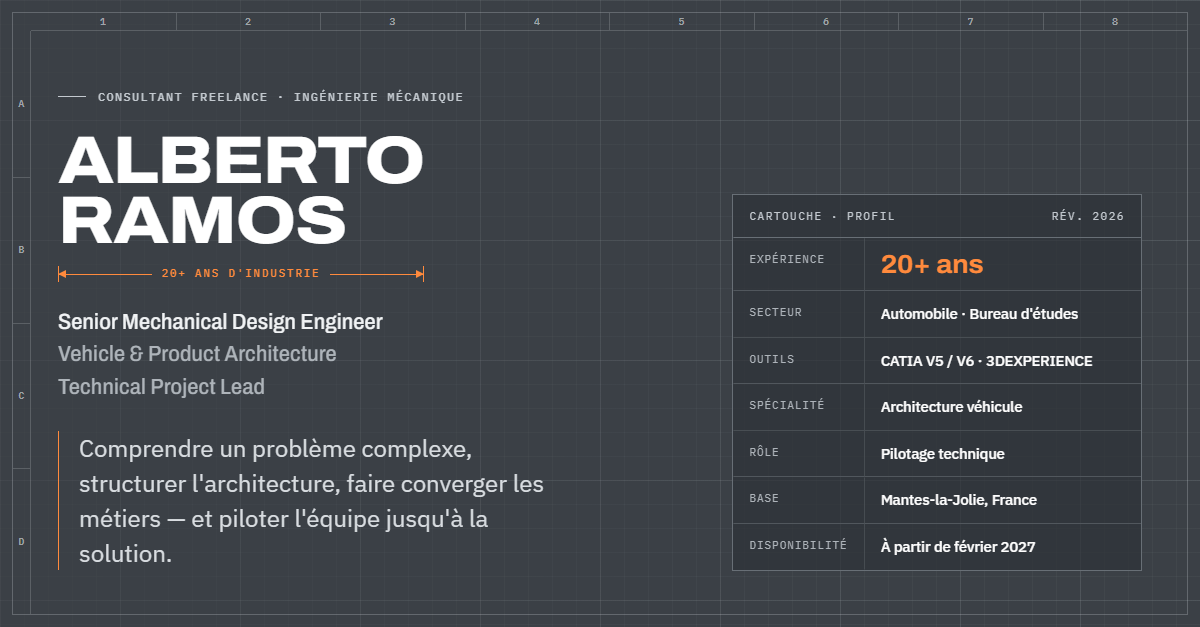
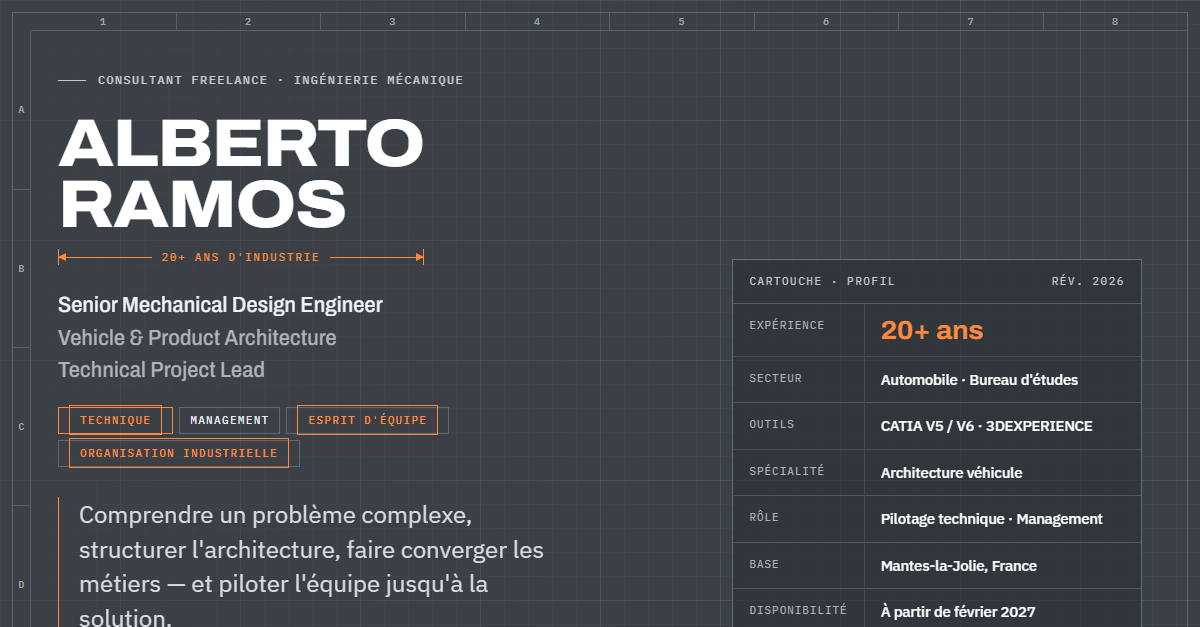
Met en ligne la v7 : pilotage, management et organisation industrielle

diff --git a/index.html b/index.html
@@ -525,7 +525,7 @@ html.anim .entry.in .lvl i:nth-child(5) { transition-delay: .32s; }
 }
 
 /* ------------------------------------------------------------------
-   V6 — Technique & couleur, tons gris (dérivée de la V5)
+   V7 (base V6) — Technique & couleur, tons gris (dérivée de la V5)
    Gris graphite, traits gris clair, cotes orange sécurité ; chaque domaine
    d'expertise porte la couleur de son « calque » CAO.
 ------------------------------------------------------------------- */
@@ -765,6 +765,119 @@ footer { background: #33373C; border-top-color: #575D63; }
 }
 
 /* ------------------------------------------------------------------
+   V7 — Pilotage, management & organisation industrielle
+------------------------------------------------------------------- */
+/* Étiquettes d'axes dans le hero */
+.axes { margin-top: 22px; display: flex; flex-wrap: wrap; gap: 6px; }
+.axes span {
+  font: 500 11px/1 var(--f-mono); letter-spacing: .12em; text-transform: uppercase;
+  padding: 7px 10px; border: 1px solid rgba(205,210,215,.28); color: #E6E9EC;
+}
+.axes span:first-child { border-color: var(--accent-lt); color: var(--accent-lt); }
+html.anim .axes span { animation: fadeUp .6s var(--ease) backwards; animation-delay: calc(.85s + var(--i, 0) * .07s); }
+
+/* Carte des interfaces pilotées */
+.imap-cap { display: flex; justify-content: space-between; gap: 12px; flex-wrap: wrap; margin-bottom: 18px; font: 500 11px/1.4 var(--f-mono); letter-spacing: .14em; text-transform: uppercase; color: var(--steel); }
+.imap { --gap: 56px; display: grid; grid-template-columns: minmax(0, 1fr) minmax(220px, .9fr) minmax(0, 1fr); column-gap: var(--gap); row-gap: 14px; align-items: center; }
+.node {
+  position: relative; background: var(--white); border: 1px solid var(--line); padding: 16px 18px;
+  display: grid; gap: 4px;
+}
+.node::before { content: ""; position: absolute; top: -1px; left: -1px; width: 28px; height: 3px; background: var(--layer, var(--accent)); }
+.node b { font: 600 15.5px/1.25 var(--f-display); color: var(--anthracite); }
+.node span { font-size: 13.5px; line-height: 1.45; color: var(--steel); }
+.node.l { grid-column: 1; text-align: right; }
+.node.l::before { left: auto; right: -1px; }
+.node.r { grid-column: 3; }
+.node::after { content: ""; position: absolute; top: 50%; height: 1px; width: var(--gap); background: var(--layer, var(--accent)); opacity: .7; }
+.node.l::after { left: 100%; }
+.node.r::after { right: 100%; }
+.hub {
+  grid-column: 2; grid-row: 1 / span 3; align-self: stretch;
+  display: grid; align-content: center; gap: 8px; text-align: center;
+  background: var(--anthracite); color: var(--white); padding: 26px 22px; position: relative;
+}
+.hub::before { content: ""; position: absolute; inset: 8px; border: 1px dashed rgba(205,210,215,.35); pointer-events: none; }
+.hub small { font: 500 10.5px/1.4 var(--f-mono); letter-spacing: .16em; text-transform: uppercase; color: var(--accent-lt); }
+.hub b { font: 700 22px/1.15 var(--f-display); }
+.hub span { font-size: 14px; line-height: 1.5; color: #D9DDE1; }
+
+/* Méthode en 5 temps */
+.steps-title, .team-title { margin: 56px 0 18px; font: 500 11px/1.4 var(--f-mono); letter-spacing: .14em; text-transform: uppercase; color: var(--steel); }
+.steps { display: grid; grid-template-columns: repeat(5, minmax(0, 1fr)); gap: 0; border-top: 2px solid var(--anthracite); counter-reset: step; }
+.step { position: relative; padding: 20px 18px 6px 0; counter-increment: step; display: grid; gap: 8px; align-content: start; }
+.step + .step { padding-left: 18px; border-left: 1px solid var(--line); }
+.step::before { content: counter(step, decimal-leading-zero); font: 700 34px/1 var(--f-display); color: var(--accent); }
+.step::after {
+  content: ""; position: absolute; top: -6px; right: -6px; width: 10px; height: 10px; z-index: 1;
+  border-top: 2px solid var(--anthracite); border-right: 2px solid var(--anthracite); transform: rotate(45deg); background: transparent;
+}
+.step:last-child::after { display: none; }
+.step h3 { font: 700 18px/1.2 var(--f-display); color: var(--anthracite); text-transform: uppercase; letter-spacing: .03em; }
+.step p { font-size: 14.5px; line-height: 1.5; color: var(--text, #3A4046); }
+
+/* Esprit d'équipe */
+.team { display: grid; grid-template-columns: repeat(3, minmax(0, 1fr)); gap: 16px; }
+.team > div { background: var(--white); border: 1px solid var(--line); padding: 22px 22px 20px; display: grid; gap: 10px; align-content: start; position: relative; }
+.team > div::before { content: ""; position: absolute; top: -1px; left: -1px; width: 28px; height: 3px; background: var(--layer); }
+.team > div:nth-child(1) { --layer: var(--layer-c); }
+.team > div:nth-child(2) { --layer: var(--layer-d); }
+.team > div:nth-child(3) { --layer: var(--layer-a); }
+.team h3 { font: 700 19px/1.2 var(--f-display); color: var(--anthracite); }
+.team p { font-size: 14.8px; line-height: 1.55; color: #3A4046; }
+.team q { quotes: "« " " »"; color: var(--anthracite); font-style: italic; }
+html[lang="en"] .team q { quotes: "“" "”"; }
+.team .yr { font: 500 11px/1.4 var(--f-mono); letter-spacing: .08em; color: var(--steel); }
+
+@media screen and (max-width: 1080px) {
+  .steps { grid-template-columns: repeat(3, minmax(0, 1fr)); row-gap: 18px; }
+  .step:nth-child(4) { padding-left: 0; border-left: 0; }
+  .step:nth-child(3)::after { display: none; }
+  .team { grid-template-columns: minmax(0, 1fr); }
+}
+@media screen and (max-width: 880px) {
+  .imap { grid-template-columns: minmax(0, 1fr); row-gap: 10px; }
+  .hub { grid-column: 1; grid-row: auto; order: -1; }
+  .node.l, .node.r { grid-column: 1; text-align: left; margin-left: 22px; }
+  .node.l::before { left: -1px; right: auto; }
+  .node::after, .node.l::after, .node.r::after { left: -22px; right: auto; width: 22px; }
+  .imap { position: relative; }
+  .imap::before { content: ""; position: absolute; left: 0; top: 0; bottom: 30px; width: 1px; background: var(--line); }
+}
+@media screen and (max-width: 620px) {
+  .steps { grid-template-columns: minmax(0, 1fr); }
+  .step, .step + .step, .step:nth-child(4) { padding: 16px 0 4px; border-left: 0; }
+  .step + .step { border-top: 1px solid var(--line); }
+  .step::after { display: none; }
+}
+
+@media print {
+  #pilotage { break-before: page; }
+  .axes { margin-top: 2mm; }
+  .axes span { font-size: 6.8pt; padding: 1mm 1.6mm; color: var(--anthracite) !important; border-color: var(--line) !important; }
+  .axes span:first-child { color: var(--accent) !important; border-color: var(--accent) !important; }
+  .imap-cap { margin-bottom: 2mm; font-size: 6.8pt; }
+  .imap { --gap: 8mm; row-gap: 2mm; }
+  .node { padding: 2mm 2.5mm; }
+  .node b { font-size: 9.5pt; }
+  .node span { font-size: 8pt; }
+  .hub { background: #fff !important; color: var(--anthracite) !important; border: 1.5pt solid var(--anthracite); padding: 3mm; }
+  .hub b { font-size: 12pt; }
+  .hub span { color: #3A4046 !important; font-size: 8.4pt; }
+  .hub small { color: var(--accent) !important; font-size: 6.8pt; }
+  .steps-title, .team-title { margin: 5mm 0 2mm; font-size: 7pt; }
+  .step, .step + .step { padding: 2.5mm 2.5mm 0 0; }
+  .step + .step { padding-left: 2.5mm; }
+  .step::before { font-size: 16pt; }
+  .step h3 { font-size: 10pt; }
+  .step p { font-size: 8.4pt; }
+  .team { gap: 3mm; break-inside: avoid; }
+  .team > div { padding: 3mm; gap: 1.5mm; }
+  .team h3 { font-size: 10.5pt; }
+  .team p { font-size: 8.4pt; }
+}
+
+/* ------------------------------------------------------------------
    Impression A4 — « Download CV »
 ------------------------------------------------------------------- */
 @page { size: A4; margin: 13mm 14mm 14mm; }
@@ -880,6 +993,7 @@ footer { background: #33373C; border-top-color: #575D63; }
     <a class="brand" href="#top">ALBERTO RAMOS<span class="brand-sub"> <b>/</b> <span class="fr">ING. MÉCANIQUE</span><span class="en">MECH. ENG.</span></span></a>
     <nav class="nav" aria-label="Sections">
       <a href="#profil"><span class="fr">Profil</span><span class="en">Profile</span></a>
+      <a href="#pilotage"><span class="fr">Pilotage</span><span class="en">Leadership</span></a>
       <a href="#expertise">Expertise</a>
       <a href="#experience"><span class="fr">Expérience</span><span class="en">Experience</span></a>
       <a href="#projets"><span class="fr">Projets</span><span class="en">Projects</span></a>
@@ -914,7 +1028,12 @@ footer { background: #33373C; border-top-color: #575D63; }
         <span>Vehicle &amp; Product Architecture</span>
         <span>Technical Project Lead</span>
       </div>
-      <p class="thesis">
+      <div class="axes" aria-label="Axes">
+        <span style="--i:0"><span class="fr">Technique</span><span class="en">Engineering</span></span>
+        <span style="--i:1">Management</span>
+        <span style="--i:2"><span class="fr">Esprit d'équipe</span><span class="en">Team spirit</span></span>
+        <span style="--i:3"><span class="fr">Organisation industrielle</span><span class="en">Industrial organisation</span></span>
+      </div>      <p class="thesis">
         <span class="fr">Comprendre un problème complexe, structurer l'architecture, faire converger les métiers — et piloter l'équipe jusqu'à la solution.</span>
         <span class="en">Understand a complex problem, structure the architecture, bring every discipline into alignment — and lead the team all the way to the solution.</span>
       </p>
@@ -939,7 +1058,7 @@ footer { background: #33373C; border-top-color: #575D63; }
         <dt><span class="fr">Spécialité</span><span class="en">Specialty</span></dt>
         <dd><span class="fr">Architecture véhicule</span><span class="en">Vehicle architecture</span></dd>
         <dt><span class="fr">Rôle</span><span class="en">Role</span></dt>
-        <dd><span class="fr">Pilotage technique</span><span class="en">Technical leadership</span></dd>
+        <dd><span class="fr">Pilotage technique · Management</span><span class="en">Technical leadership · Management</span></dd>
         <dt><span class="fr">Base</span><span class="en">Based in</span></dt>
         <dd>Mantes-la-Jolie, France</dd>
         <dt><span class="fr">Disponibilité</span><span class="en">Availability</span></dt>
@@ -979,8 +1098,61 @@ footer { background: #33373C; border-top-color: #575D63; }
   </div>
 </section>
 
+<!-- ================================================================ PILOTAGE & ORGANISATION -->
+<section id="pilotage" class="alt">
+  <div class="wrap">
+    <div class="sec-head">
+      <p class="label"><span class="fr">Pilotage &amp; organisation</span><span class="en">Leadership &amp; organisation</span></p>
+      <h2><span class="fr">Faire converger une organisation industrielle complexe.</span><span class="en">Bringing a complex industrial organisation to convergence.</span></h2>
+    </div>
+
+    <p class="imap-cap"><span><span class="fr">Carte des interfaces pilotées</span><span class="en">Map of managed interfaces</span></span><span><span class="fr">Programme FlexEVAN · Renault</span><span class="en">FlexEVAN programme · Renault</span></span></p>
+    <div class="imap">
+      <div class="node l" style="--layer:var(--layer-b)"><b><span class="fr">Conception mécanique</span><span class="en">Mechanical design</span></b><span><span class="fr">CAO CATIA V6 · 3DEXPERIENCE · définition produit</span><span class="en">CATIA V6 · 3DEXPERIENCE · product definition</span></span></div>
+      <div class="hub">
+        <small><span class="fr">Rôle pivot</span><span class="en">Pivot role</span></small>
+        <b><span class="fr">Architecte synthèse · pilote technique</span><span class="en">Synthesis architect · technical lead</span></b>
+        <span><span class="fr">Priorise, synchronise les métiers et fait converger les solutions jusqu'aux jalons.</span><span class="en">Sets priorities, synchronises disciplines and drives solutions to convergence at each milestone.</span></span>
+      </div>
+      <div class="node r" style="--layer:var(--layer-d)"><b><span class="fr">Coût · process · délais</span><span class="en">Cost · process · schedule</span></b><span><span class="fr">Cohérence des solutions avec les contraintes</span><span class="en">Solutions kept consistent with constraints</span></span></div>
+      <div class="node l" style="--layer:var(--layer-e)"><b><span class="fr">Design &amp; innovation</span><span class="en">Design &amp; innovation</span></b><span><span class="fr">Design, innovation, dépôt de brevets, dossiers CIR</span><span class="en">Design, innovation, patent filings, R&amp;D tax credit files</span></span></div>
+      <div class="node r" style="--layer:var(--layer-a)"><b><span class="fr">Jalons &amp; livrables</span><span class="en">Milestones &amp; deliverables</span></b><span><span class="fr">Check-list métier, reporting, suivi EO/RO</span><span class="en">Discipline checklist, reporting, EO/RO tracking</span></span></div>
+      <div class="node l" style="--layer:var(--layer-c)"><b><span class="fr">Industrialisation</span><span class="en">Industrialisation</span></b><span><span class="fr">Interface conception / industrialisation, jusqu'aux outillages</span><span class="en">Design / industrialisation interface, through to tooling</span></span></div>
+      <div class="node r" style="--layer:var(--layer-c)"><b><span class="fr">Équipes internationales</span><span class="en">International teams</span></b><span><span class="fr">5 architectes pilotés · équipe de conception au RNTBCI</span><span class="en">5 architects led · design team at RNTBCI</span></span></div>
+    </div>
+
+    <p class="steps-title"><span class="fr">Méthode de pilotage — en 5 temps</span><span class="en">Leadership method — 5 stages</span></p>
+    <div class="steps">
+      <div class="step"><h3><span class="fr">Organiser</span><span class="en">Organise</span></h3><p><span class="fr">Staffing de l'équipe d'architectes, organisation et routines de travail.</span><span class="en">Staff the architect team, set up its organisation and working routines.</span></p></div>
+      <div class="step"><h3><span class="fr">Prioriser</span><span class="en">Prioritise</span></h3><p><span class="fr">Structurer l'architecture des sujets et prioriser les activités.</span><span class="en">Structure the architecture of topics and prioritise activities.</span></p></div>
+      <div class="step"><h3><span class="fr">Synchroniser</span><span class="en">Synchronise</span></h3><p><span class="fr">Animer et synchroniser les métiers autour d'une même cible.</span><span class="en">Facilitate and synchronise disciplines around a shared target.</span></p></div>
+      <div class="step"><h3><span class="fr">Converger</span><span class="en">Converge</span></h3><p><span class="fr">Challenger les constructions et valider les choix techniques.</span><span class="en">Challenge the designs and validate technical choices.</span></p></div>
+      <div class="step"><h3><span class="fr">Livrer</span><span class="en">Deliver</span></h3><p><span class="fr">Livrables aux jalons, reporting et suivi du statut des pièces (EO/RO).</span><span class="en">Milestone deliverables, reporting and part-status tracking (EO/RO).</span></p></div>
+    </div>
+
+    <p class="team-title"><span class="fr">Management &amp; esprit d'équipe</span><span class="en">Management &amp; team spirit</span></p>
+    <div class="team">
+      <div>
+        <h3><span class="fr">Animer l'équipe</span><span class="en">Lead the team</span></h3>
+        <p><span class="fr">Une équipe internationale de 5 architectes pilotée, animée <q>avec efficacité, malgré les aléas du projet</q>.</span><span class="en">An international team of 5 architects, led <q>effectively, despite the project's setbacks</q>.</span></p>
+        <span class="yr"><span class="fr">Retour managérial Renault · 2024</span><span class="en">Renault manager review · 2024 (translated)</span></span>
+      </div>
+      <div>
+        <h3><span class="fr">Améliorer le collectif</span><span class="en">Improve how we work</span></h3>
+        <p><span class="fr">Transformer les irritants en <q>propositions concrètes pour améliorer les modes de fonctionnement et les outils</q> — dont l'outil de suivi EO/RO.</span><span class="en">Turn friction into <q>concrete proposals to improve ways of working and tools</q> — including the EO/RO tracking tool.</span></p>
+        <span class="yr"><span class="fr">Retour managérial Renault · 2024</span><span class="en">Renault manager review · 2024 (translated)</span></span>
+      </div>
+      <div>
+        <h3><span class="fr">S'engager</span><span class="en">Commit</span></h3>
+        <p><span class="fr"><q>Rigueur, organisation, volontariat, proactivité, efficacité et engagement.</q> Pratiques agiles : Scrum Master, Agile Relay Practitioner.</span><span class="en"><q>Rigour, organisation, initiative, proactivity, efficiency and commitment.</q> Agile practice: Scrum Master, Agile Relay Practitioner.</span></p>
+        <span class="yr"><span class="fr">Retour managérial Renault · 2022</span><span class="en">Renault manager review · 2022 (translated)</span></span>
+      </div>
+    </div>
+  </div>
+</section>
+
 <!-- ================================================================ 3. EXPERTISE -->
-<section id="expertise" class="alt">
+<section id="expertise">
   <div class="wrap">
     <div class="sec-head">
       <p class="label">Expertise</p>
@@ -1515,7 +1687,7 @@ footer { background: #33373C; border-top-color: #575D63; }
 
   // Apparition au défilement, par groupes (décalage --i dans chaque groupe)
   var groups = [
-    ".sec-head", ".gantt", ".sec-body .lead", ".sec-body .prose", ".facts", ".fact", ".pillars", ".pillar", ".split > div",
+    ".sec-head", ".gantt", ".imap-cap", ".imap", ".steps-title", ".step", ".team-title", ".team > div", ".sec-body .lead", ".sec-body .prose", ".facts", ".fact", ".pillars", ".pillar", ".split > div",
     ".chips", ".xp-group > .label", ".xp", ".quote", ".project", ".skills", ".skillset", ".ai-item",
     ".ai .tags", ".trio > div", ".entry", ".contact .wrap > *"
   ];
